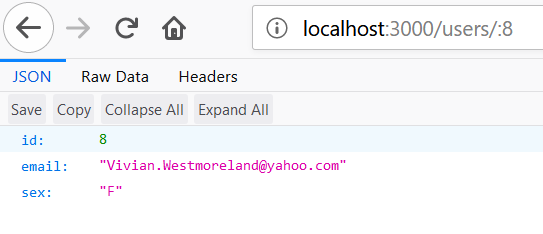
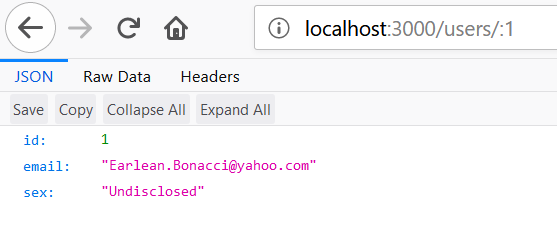
C15755031-wks-1

diff --git a/worksheets/1-rest-sql-orm/massive/index.js b/worksheets/1-rest-sql-orm/massive/index.js
@@ -67,7 +67,8 @@ app.get('/', (req, res) => {
 
 /* 
 List all users email and sex in order of most recently created. 
-Do not include password hash in your output.
+This code allows for a situation where no SEX value is included, but 
+where other DETAILS (i.e. STATE) may have been supplied
 */
 app.get('/users', (req, res) => {
         db.users.find({}, {
@@ -95,7 +96,9 @@ app.get('/users', (req, res) => {
                         {
                                 user_info.push({
                                         "email": element['email'],
-                                        "sex": element['details']['sex']
+                                        // if the DETAILS are not null, but no SEX value was disclosed i.e. just the STATE is disclosed
+                                        // then the SEX value should also be "Undisclosed"
+                                        "sex": (element['details']['sex']) ? element['details']['sex'] : "aaaaaaa"
                                 });
                         }
                         else
@@ -139,9 +142,9 @@ app.get('/users/:id', (req, res) => {
                 let user = {
                         "id": items[0].id,
                         "email": items[0].email,
-                        "sex": items[0].details.sex
+                        // if no SEX value is defined, then output is "Undisclosed"
+                        "sex": items[0].details.sex ? items[0].details.sex : "Undisclosed"
                 };
-
                 res.json(user);
         });
 });

diff --git a/worksheets/1-rest-sql-orm/README.md b/worksheets/1-rest-sql-orm/README.md
@@ -84,7 +84,8 @@ _/products?name=title_
 ```javascript
 /* 
 List all users email and sex in order of most recently created. 
-Do not include password hash in your output.
+This code allows for a situation where no SEX value is included, but 
+where other DETAILS (i.e. STATE) may have been supplied
 */
 app.get('/users', (req, res) => {
   db.users.find({}, {
@@ -108,20 +109,22 @@ app.get('/users', (req, res) => {
       let user_info = [];
 
       items.forEach(element => {
-              if(element['details'] != null)
-              {
-                      user_info.push({
-                              "email": element['email'],
-                              "sex": element['details']['sex']
-                      });
-              }
-              else
-              {
-                      user_info.push({
-                              "email": element['email'],
-                              "sex": "Undisclosed"
-                      });
-              }
+          if(element['details'] != null)
+          {
+            user_info.push({
+                    "email": element['email'],
+                    // if the DETAILS are not null, but no SEX value was disclosed i.e. just the STATE is disclosed
+                    // then the SEX value should also be "Undisclosed"
+                    "sex": (element['details']['sex']) ? element['details']['sex'] : "Undisclosed"
+            });
+          }
+          else
+          {
+            user_info.push({
+                    "email": element['email'],
+                    "sex": "Undisclosed"
+            });
+          }
       });
       res.json(user_info);
   });
@@ -151,22 +154,24 @@ app.get('/users/:id', (req, res) => {
 
     // use clean ID value to get the user from DB
     db.users.find({'id = ' : userID}, {
-            // filter results
-            fields: 
-            [
-                    "id",
-                    "email",
-                    "details::json"
-            ]
+        // filter results
+        fields: 
+        [
+                "id",
+                "email",
+                "details::json"
+        ]
     })
     // convert results to JSON for the response 
     .then(items => {
-          let user = {
-                  "id": items[0].id,
-                  "email": items[0].email,
-                  "sex": items[0].details.sex
-          };
-          res.json(user);
+        let user = {
+                "id": items[0].id,
+                "email": items[0].email,
+                // if no SEX value is defined, then output is "Undisclosed"
+                "sex": items[0].details.sex ? items[0].details.sex : "Undisclosed"
+        };
+
+        res.json(user);
     });
 });
 ```
@@ -188,14 +193,14 @@ app.get('/products', (req, res) => {
         {       // undefined if no name set, just return ALL products
                 console.log("params are undefined"); 
                 db.products.find({}, {
-                        // order results
-                        order: [
-                                {
-                                        field: 'price',
-                                        direction: 'asc',
-                                        nulls: 'first'
-                                }  
-                        ]
+                    // order results
+                    order: [
+                            {
+                                    field: 'price',
+                                    direction: 'asc',
+                                    nulls: 'first'
+                            }  
+                    ]
                 })
                 // convert results to JSON for the response 
                 .then(items => {
